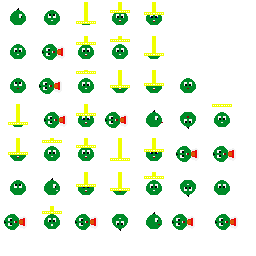
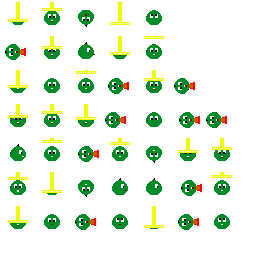
feat: animated bob sprites added

diff --git a/core/src/main/java/com/team3/_8/game/Orthographic.java b/core/src/main/java/com/team3/_8/game/Orthographic.java
@@ -6,6 +6,7 @@ import com.badlogic.gdx.Input;
 import com.badlogic.gdx.graphics.GL20;
 import com.badlogic.gdx.graphics.OrthographicCamera;
 import com.badlogic.gdx.graphics.g2d.TextureRegion;
+import com.badlogic.gdx.graphics.g2d.Animation;
 import com.badlogic.gdx.graphics.g2d.Sprite;
 import com.badlogic.gdx.graphics.g2d.SpriteBatch;
 import com.badlogic.gdx.graphics.g2d.TextureAtlas;
@@ -13,6 +14,7 @@ import com.badlogic.gdx.maps.tiled.TiledMapRenderer;
 import com.badlogic.gdx.maps.tiled.TiledMapTileLayer;
 import com.badlogic.gdx.math.Intersector;
 import com.badlogic.gdx.math.Rectangle;
+import com.badlogic.gdx.utils.Array;
 import com.badlogic.gdx.utils.viewport.FillViewport;
 import com.badlogic.gdx.utils.viewport.FitViewport;
 import com.badlogic.gdx.utils.viewport.StretchViewport;
@@ -31,16 +33,19 @@ public class Orthographic implements ApplicationListener {
     private Viewport viewport;
     private SpriteBatch batch;
 
-    private TextureRegion bobFront;
-    private TextureRegion bobLeft;
-    private TextureRegion bobRight;
-    private TextureRegion bobUp;
-    private TextureRegion bobDown;
-    private TextureRegion bobRocket;
+    // Vars to hold each set of animation images
+    private Animation<TextureRegion> bobFront;
+    private Animation<TextureRegion> bobLeft;
+    private Animation<TextureRegion> bobRight;
+    private Animation<TextureRegion> bobUp;
+    private Animation<TextureRegion> bobDown;
+    private Animation<TextureRegion> bobRocket;
+    private Animation<TextureRegion> bobSquash;
+
     private Sprite bob;
 
-    float bobX;
-    float bobY;
+    // Used to control animation time
+    float stateTime;
 
     private TextureAtlas atlas;
     private Map maze;
@@ -52,19 +57,35 @@ public class Orthographic implements ApplicationListener {
     public void create() {
         atlas = new TextureAtlas(Gdx.files.internal("assets\\atlas\\bob.atlas"));
 
-        // Gets bob sprite from texture atlas
-        bobFront = new TextureRegion(atlas.findRegion("front-bob-2"));
-        bobRight = new TextureRegion(atlas.findRegion("side-bob-2"));
+        // Loads animation frames
+        Array<TextureAtlas.AtlasRegion> frontFrames = atlas.findRegions("front-bob");
+        // Creates animation object
+        bobFront = new Animation<TextureRegion>(0.5f, frontFrames);
 
-        bobLeft =  new TextureRegion(atlas.findRegion("side-bob-2"));
-        bobLeft.flip(true, false);
+        Array<TextureAtlas.AtlasRegion> rightFrames = atlas.findRegions("side-bob");
+        bobRight = new Animation<TextureRegion>(0.5f, rightFrames);
+
+        // Flips right into left frames
+        Array<TextureRegion> leftFrames = new Array<>();
+        for (TextureRegion frame: rightFrames){
+            TextureRegion temp_frame = new TextureRegion(frame);
+            temp_frame.flip(true, false);
+            leftFrames.add(temp_frame);
+        }
+        bobLeft = new Animation<TextureRegion>(0.5f, leftFrames);
+
+        Array<TextureAtlas.AtlasRegion> upFrames = atlas.findRegions("up-bob");
+        bobUp = new Animation<TextureRegion>(0.5f, upFrames);
 
         bobDown = bobFront;
+        
+        Array<TextureAtlas.AtlasRegion> squashFrames = atlas.findRegions("squash-bob");
+        bobSquash = new Animation<TextureRegion>(0.5f, squashFrames);
 
-        bobUp = new TextureRegion(atlas.findRegion("up-bob-2"));
-        bobRocket =  new TextureRegion(atlas.findRegion("rocket-bob-2"));
+        Array<TextureAtlas.AtlasRegion> rocketFrames = atlas.findRegions("rocket-bob");
+        bobRocket = new Animation<TextureRegion>(0.1f, rocketFrames);
 
-        bob = new Sprite(atlas.findRegion("front-bob-2"));
+        bob = new Sprite(atlas.findRegion("front-bob"));
         bob.setSize(BOB_WIDTH,BOB_HEIGHT);
         bob.setPosition(30,30);
 
@@ -81,6 +102,7 @@ public class Orthographic implements ApplicationListener {
 
 
         batch = new SpriteBatch();
+        stateTime = 0f;
         viewport = new FillViewport(WORLD_WIDTH, WORLD_HEIGHT, camera);
 
     }
@@ -94,15 +116,18 @@ public class Orthographic implements ApplicationListener {
     public void render() {
         handleInput();
         movement();
+
+        // Clears past animation & ticks to next frame
+        Gdx.gl.glClear(GL20.GL_COLOR_BUFFER_BIT);
+        stateTime += Gdx.graphics.getDeltaTime();
+
         camera.position.set(bob.getX() + ((float) BOB_WIDTH / 2), bob.getY() + ((float) BOB_HEIGHT / 2), 0);
         camera.update();
         batch.setProjectionMatrix(camera.combined);
 
-        Gdx.gl.glClear(GL20.GL_COLOR_BUFFER_BIT);
-
         maze.renderMap(camera);
         batch.begin();
-        bob.draw(batch);
+        bob.draw(batch); // Renders bob sprite animation
         batch.end();
     }
 
@@ -125,27 +150,33 @@ public class Orthographic implements ApplicationListener {
         //X-axis
         overlapping_walls = maze.hits_wall(bob, speed, delta);
 
+        // Default animation if no movement
+        TextureRegion bobAnimation = bobFront.getKeyFrame(stateTime, true);
+
         if (((Gdx.input.isKeyPressed(Input.Keys.RIGHT)) || (Gdx.input.isKeyPressed(Input.Keys.D))) && !overlapping_walls[0] ) {
-            bob.setRegion(bobRight); // Changes bob sprite icon
+            // Sets animation for right movement
+            bobAnimation = bobRight.getKeyFrame(stateTime, true);
             bob.translateX(speed * delta);
         }
         if (((Gdx.input.isKeyPressed(Input.Keys.LEFT)) || (Gdx.input.isKeyPressed(Input.Keys.A))) && !overlapping_walls[2]) {
-            bob.setRegion(bobLeft);
+            // bob.setRegion(bobLeft);
+            bobAnimation = bobLeft.getKeyFrame(stateTime, true);
             bob.translateX(-speed * delta);
         }
 
         //Y-axis
         if (((Gdx.input.isKeyPressed(Input.Keys.UP)) || (Gdx.input.isKeyPressed(Input.Keys.W))) && !overlapping_walls[3]) {
-            bob.setRegion(bobUp);
+           bobAnimation = bobUp.getKeyFrame(stateTime, true);
             bob.translateY(speed * delta);
         }
 
         if (((Gdx.input.isKeyPressed(Input.Keys.DOWN)) || (Gdx.input.isKeyPressed(Input.Keys.S))) && !overlapping_walls[1]) {
-            bob.setRegion(bobDown);
+            bobAnimation = bobDown.getKeyFrame(stateTime, true);
             bob.translateY(-speed * delta);
         }
-        
-        
+
+        // Sets bob sprite to run the animation configured above
+        bob.setRegion(bobAnimation);
     }
 
     @Override
